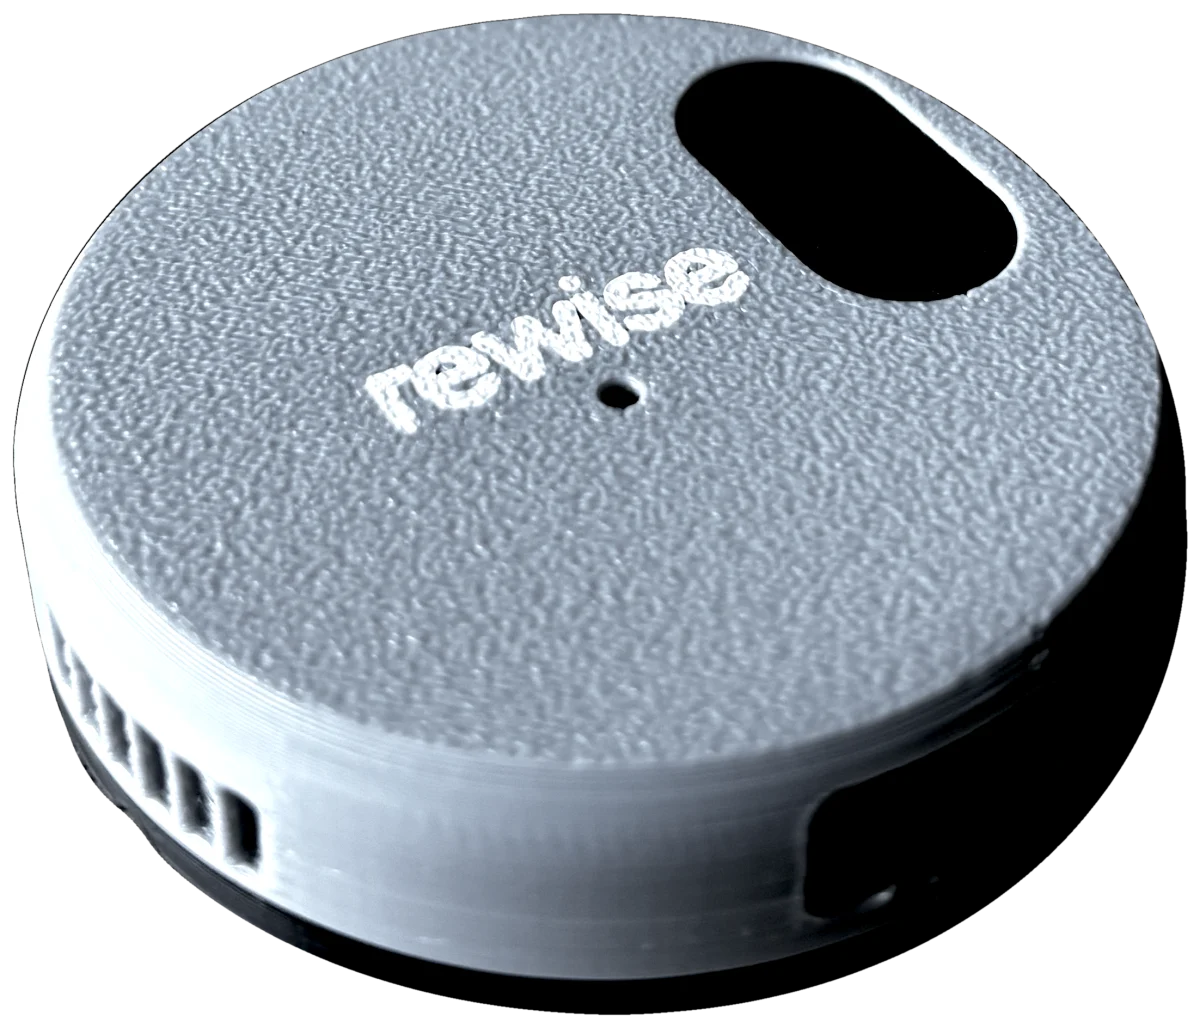
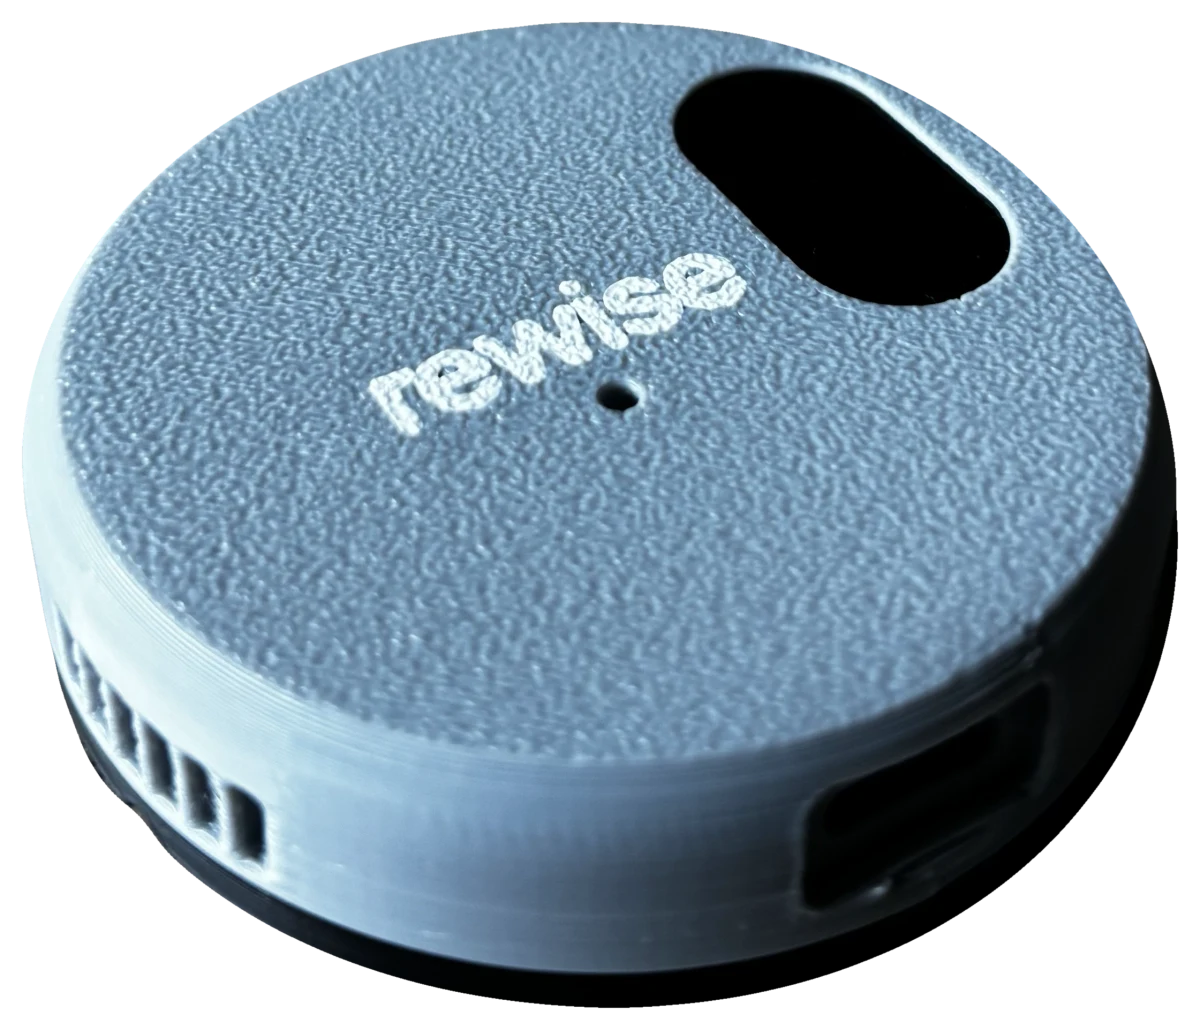
Product photos: ChatGPT cut-outs with a light colour correction to match the real puck; no added shadows

diff --git a/styles.css b/styles.css
@@ -70,7 +70,7 @@ h3 { letter-spacing: -.012em; }
 .accent-text { color: var(--accent); }
 
 .hero { padding-top: 96px; padding-bottom: 32px; overflow: hidden; }
-.hero .product { width: min(760px, 108%); margin: 36px auto 0; filter: drop-shadow(0 34px 44px rgba(0,0,0,.20)); }
+.hero .product { width: min(760px, 108%); margin: 36px auto 0; }
 .price-tag { display: inline-flex; align-items: baseline; gap: 10px; margin-top: 18px; font-size: 17px; color: var(--muted); }
 .price-tag strong { font-size: 28px; color: var(--ink); letter-spacing: -.01em; }
 .hero-note { font-size: 14px; color: var(--muted); margin-top: 14px; }
@@ -338,7 +338,6 @@ footer .brand img { height: 22px; width: auto; margin-bottom: 10px; }
   .pill { color: #0d0f10 !important; }
   .pill.gray { color: var(--accent) !important; }
   .doc p, .doc li { color: #d1d1d6; }
-  .hero .product { filter: drop-shadow(0 34px 44px rgba(0,0,0,.6)); }
   .field input, .field select { background: #2c2c2e; }
   .form-done .check { color: #0d0f10; }
   .brands span.hit { color: #0d0f10; }
@@ -353,6 +352,5 @@ footer .brand img { height: 22px; width: auto; margin-bottom: 10px; }
 }
 
 /* Product photos */
-.shot { width: 100%; max-width: 480px; margin: 0 auto; filter: drop-shadow(0 30px 40px rgba(0,0,0,.28)); }
-.dark .shot { filter: drop-shadow(0 30px 50px rgba(0,0,0,.7)); }
+.shot { width: 100%; max-width: 480px; margin: 0 auto; }
 .hero .product { width: min(620px, 92%); }
